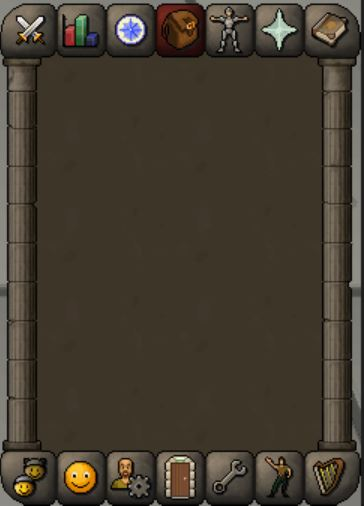
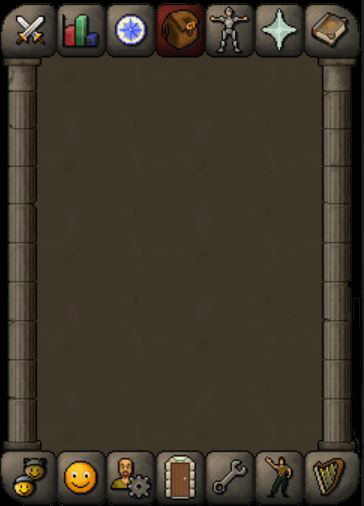
edited images with photoshop and added magic and range prayer image

diff --git a/styles.css b/styles.css
@@ -76,7 +76,7 @@ div#inventory {
     /* top: 40%;
     right: 10%; */
     /* set backlground to use image in folder */
-    background-image: url(images/inventory.JPG);
+    background-image: url(images/prayers.JPG);
     background-size: cover;
     
 }

diff --git a/README.md b/README.md
@@ -23,6 +23,7 @@ Technologies used to build this project.
 - CSS
 - Javascript
 - jQuery
+- Adobe Photoshop
 ```
 
 ---
@@ -38,6 +39,8 @@ Scaling will be off depending on how user adjusts screen.
 Will decide to go on with fixed width/height using pixels for now.
 Set up the different divs for the app.
 Experimented A LOT with CSS styling.
+Took relevant screenshots in game to be used as images for the app.
+Used photoshop to adjust images.
 
 <!-- - 9 Aug 2022:  -->
 
